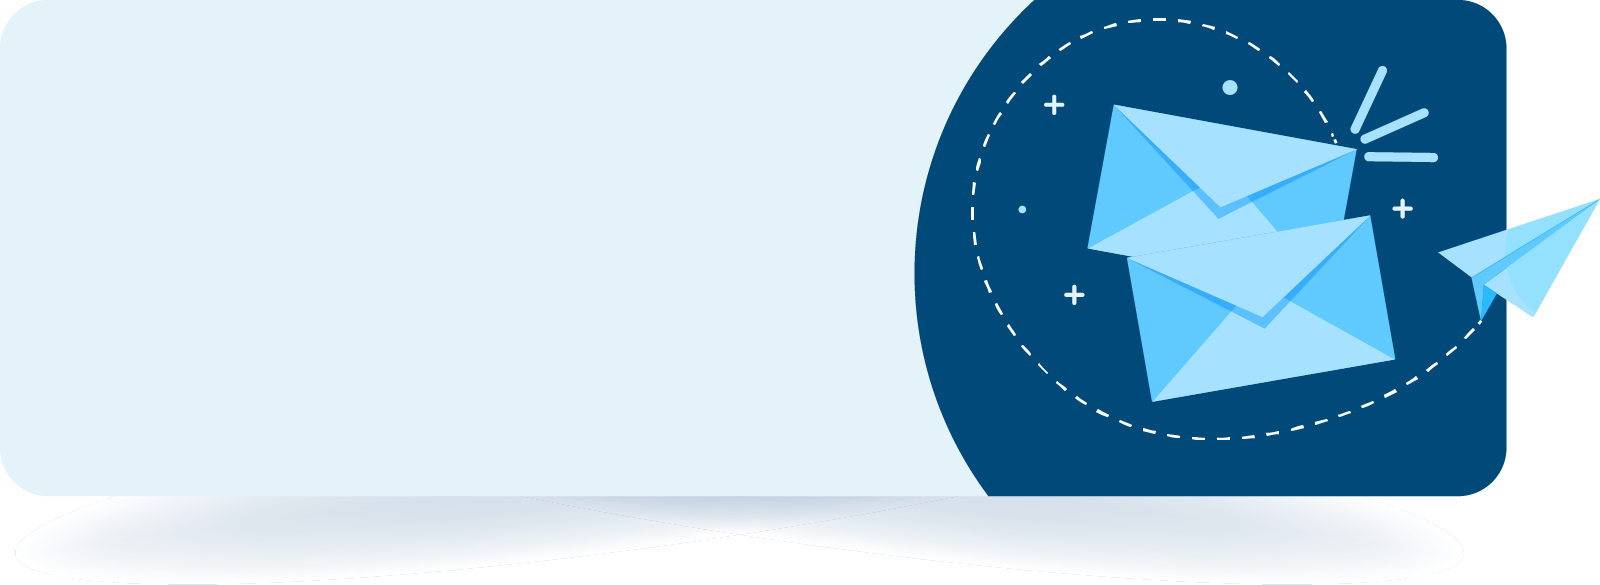
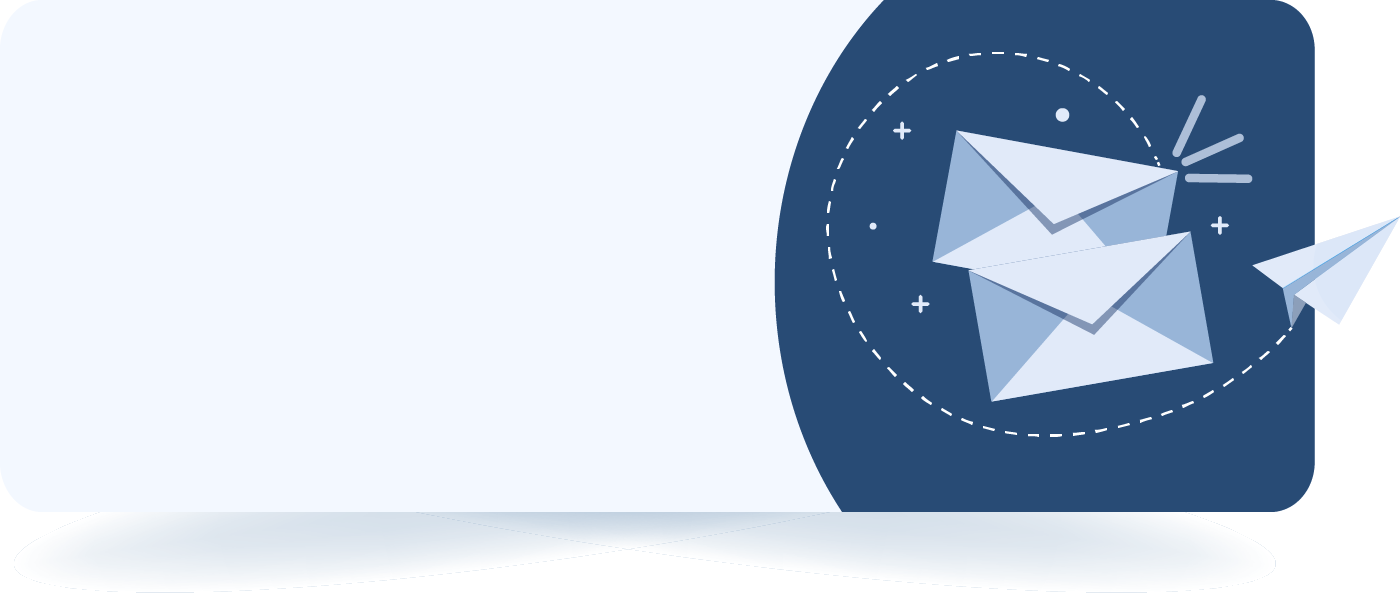
.

diff --git a/index.html b/index.html
@@ -21,6 +21,10 @@
     <script src="https://kit.fontawesome.com/839bee8405.js" crossorigin="anonymous"></script>
     <script defer src="https://friconix.com/cdn/friconix.js"></script>
     <script src="https://www.google.com/recaptcha/api.js" async defer></script>
+    <link rel="stylesheet"
+          href="https://fonts.googleapis.com/css2?family=Crimson+Pro">
+    <link rel="stylesheet"
+          href="https://fonts.googleapis.com/css2?family=Marko+One">
 </head>
 
 <body>
@@ -1183,13 +1187,13 @@
 <div id="modal" class="modal">
     <div class="modal-content">
         <span class="close">&times;</span>
-        <div class="white-space-10"></div>
+        <div style="padding-bottom: 25px;"></div>
         <div class="col-xs-12 col-sm-6">
-            <h4>Get Updates</h4>
-            <p>Subscribe to my newsletter about my activities and for regular updates of content on developing a quality
-                mindset.</p>
+            <h4 style="font-size: 40px; color: #284b75; font-family: 'Marko One', serif">Let's stay connected!</h4>
+            <div class="white-space-20"></div>
+            <p style="padding-right: 10px;">Be in the loop about my activities and receive valuable insights on how to become a better thinker and more.</p>
         </div>
-        <div class="white-space-10"></div>
+        <div style="padding-bottom: 5px;"></div>
         <div class="col-xs-12 col-sm-6">
             <form id="getupdates_form" class="contact-form" action="contact_form/contact_form.php" method="post">
                 <div class="messages"></div>
@@ -1213,7 +1217,7 @@
                                 <div class="help-block with-errors"></div>
                             </div>
                         </div>
-                        <div class="white-space-10"></div>
+                        <div style="padding-bottom: 18px;"></div>
                         <div class="row">
                             <div class="form-group form-group-with-icon col-md-12"
                                  style="margin: 0px; padding: 0px; flex: 0 0 92%">
@@ -1224,10 +1228,10 @@
                                 <div class="help-block with-errors"></div>
                             </div>
                         </div>
-                        <div class="white-space-20"></div>
+                        <div style="padding-bottom: 18px;"></div>
                         <div class="row">
                             <button class="g-recaptcha button btn-send"
-                                    style="background-color: #131e2f;"
+                                    style="background-color: #284b75; border-color: #284b75"
                                     data-sitekey="6LcLwXIlAAAAABlmf1D2DSyeBqg-b0jEzCjwz6Zs"
                                     data-callback="onSubmit"
                                     data-theme="dark"
@@ -1238,9 +1242,12 @@
                 </div>
             </form>
         </div>
+        <div style="padding-bottom: 0px;"></div>
         <div class="col-xs-12 col-sm-12">
-            <p class="subscribe-disclaimer">By clicking Subscribe, you agree to receive messages from Gomo Tulku at
-                the email provided. View our Privacy Policy and Terms of Service.</p>
+            <div class="subscribe-disclaimer">
+                <p class="left-text">By clicking Subscribe, you agree to receive messages from Gomo Tulku at the email provided.</p>
+                <p class="right-text">View our Privacy Policy and Terms of Service.</p>
+            </div>
         </div>
     </div>
 </div>

diff --git a/css/main.css b/css/main.css
@@ -3030,19 +3030,19 @@ blockquote {
   top: 50%;
   left: 50%;
   transform: translate(-50%, -50%);
-  background-image: url('https://borissimoncic.github.io/gomotulku-v2/img/subscribe1.png'); /* Replace with the correct path to your image */
+  background-image: url('../img/subscribe.png'); /* Replace with the correct path to your image */
   background-size: contain ; /* This will scale the image to cover the entire element */
   background-position: center; /* This will center the image within the element */
   background-repeat: no-repeat; /* This will prevent the image from repeating */
   width: 80%;
-  min-width: 1100px;
-  max-width: 1100px;
+  min-width: 1000px;
+  max-width: 1000px;
   height: auto; /* changed to auto */
-  min-height: 42%; /* added min-height */
+  min-height: 450px; /* added min-height */
   overflow-y: auto; /* added to handle content overflow */
   max-height: 90vh; /* added to prevent the modal from overflowing the screen height */
-  padding-left: 50px;
-  padding-top: 20px;
+  padding-left: 30px;
+  padding-top: 30px;
 }
 
 .modal h4 {
@@ -3055,23 +3055,34 @@ blockquote {
 }
 
 .subscribe-disclaimer {
+  display: flex;
+  justify-content: space-between;
   font-size: 10px;
   line-height: normal;
-  margin-top: -5px;
+}
+
+.left-text {
+  text-align: left;
+}
+
+.right-text {
+  text-align: right;
+  color: #e0e9f8!important;
+  margin-right: 82px;
 }
 
 .close {
-  color: #aaa;
+  color: #e0e9f8;
   float: right;
   font-size: 28px;
   font-weight: bold;
   cursor: pointer;
-  margin-right: 108px;
+  margin-right: 82px;
 }
 
 .close:hover,
 .close:focus {
-  color: black;
+  color: #97b4d7;
   text-decoration: none;
   cursor: pointer;
 }
